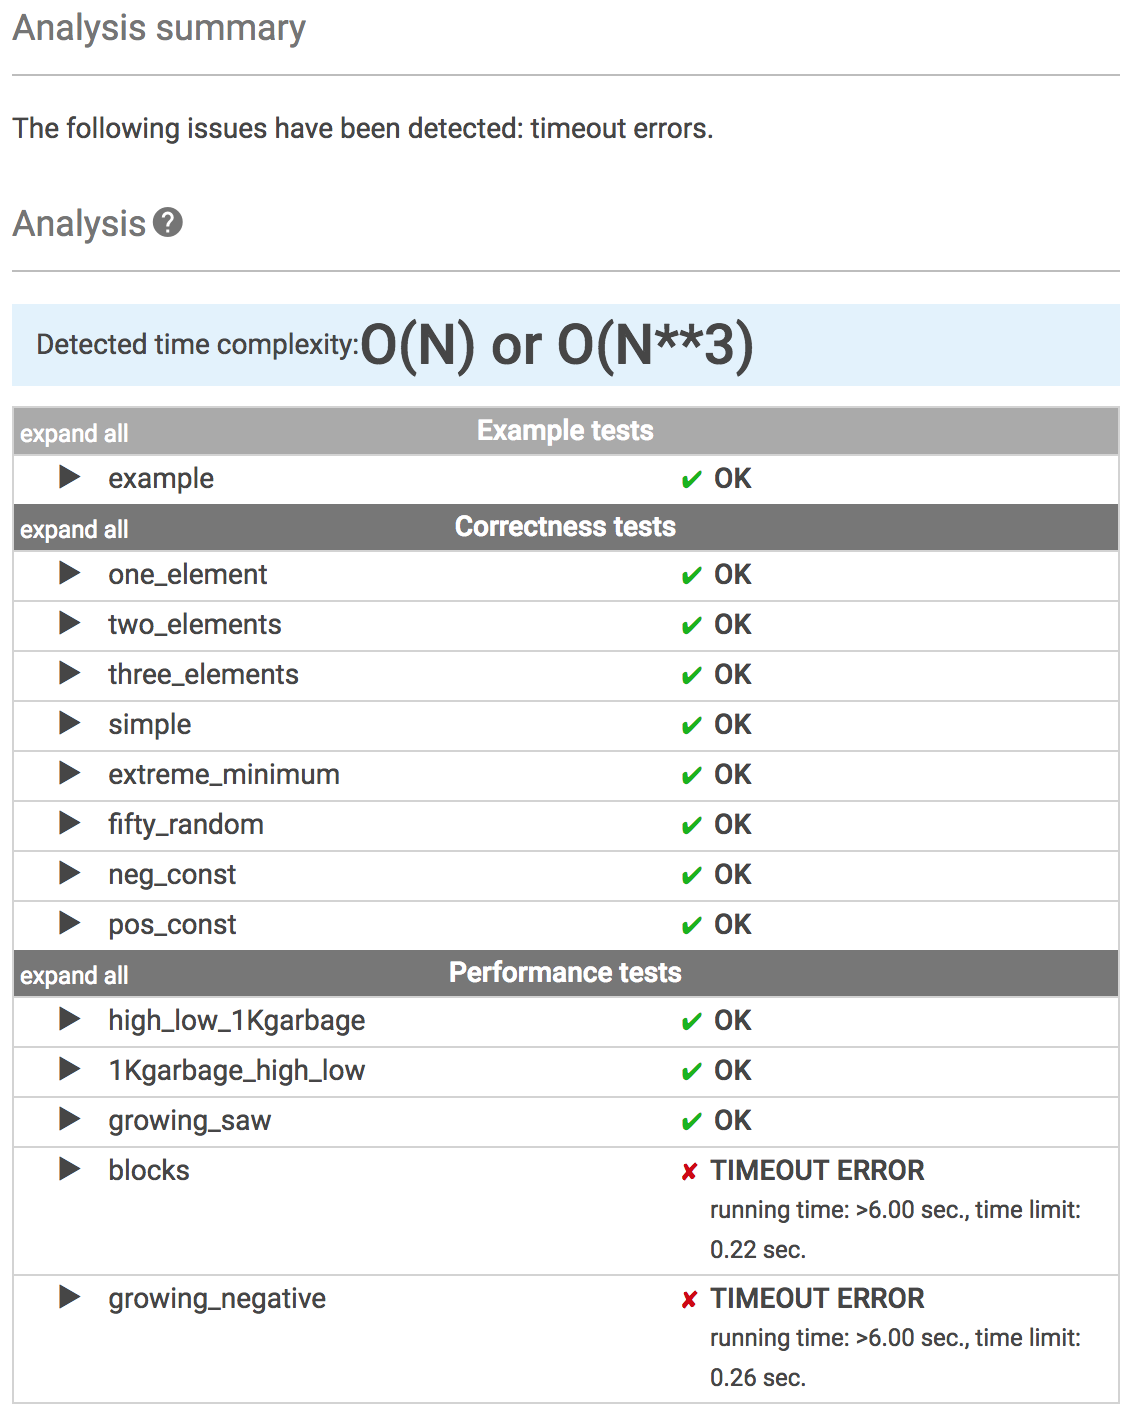
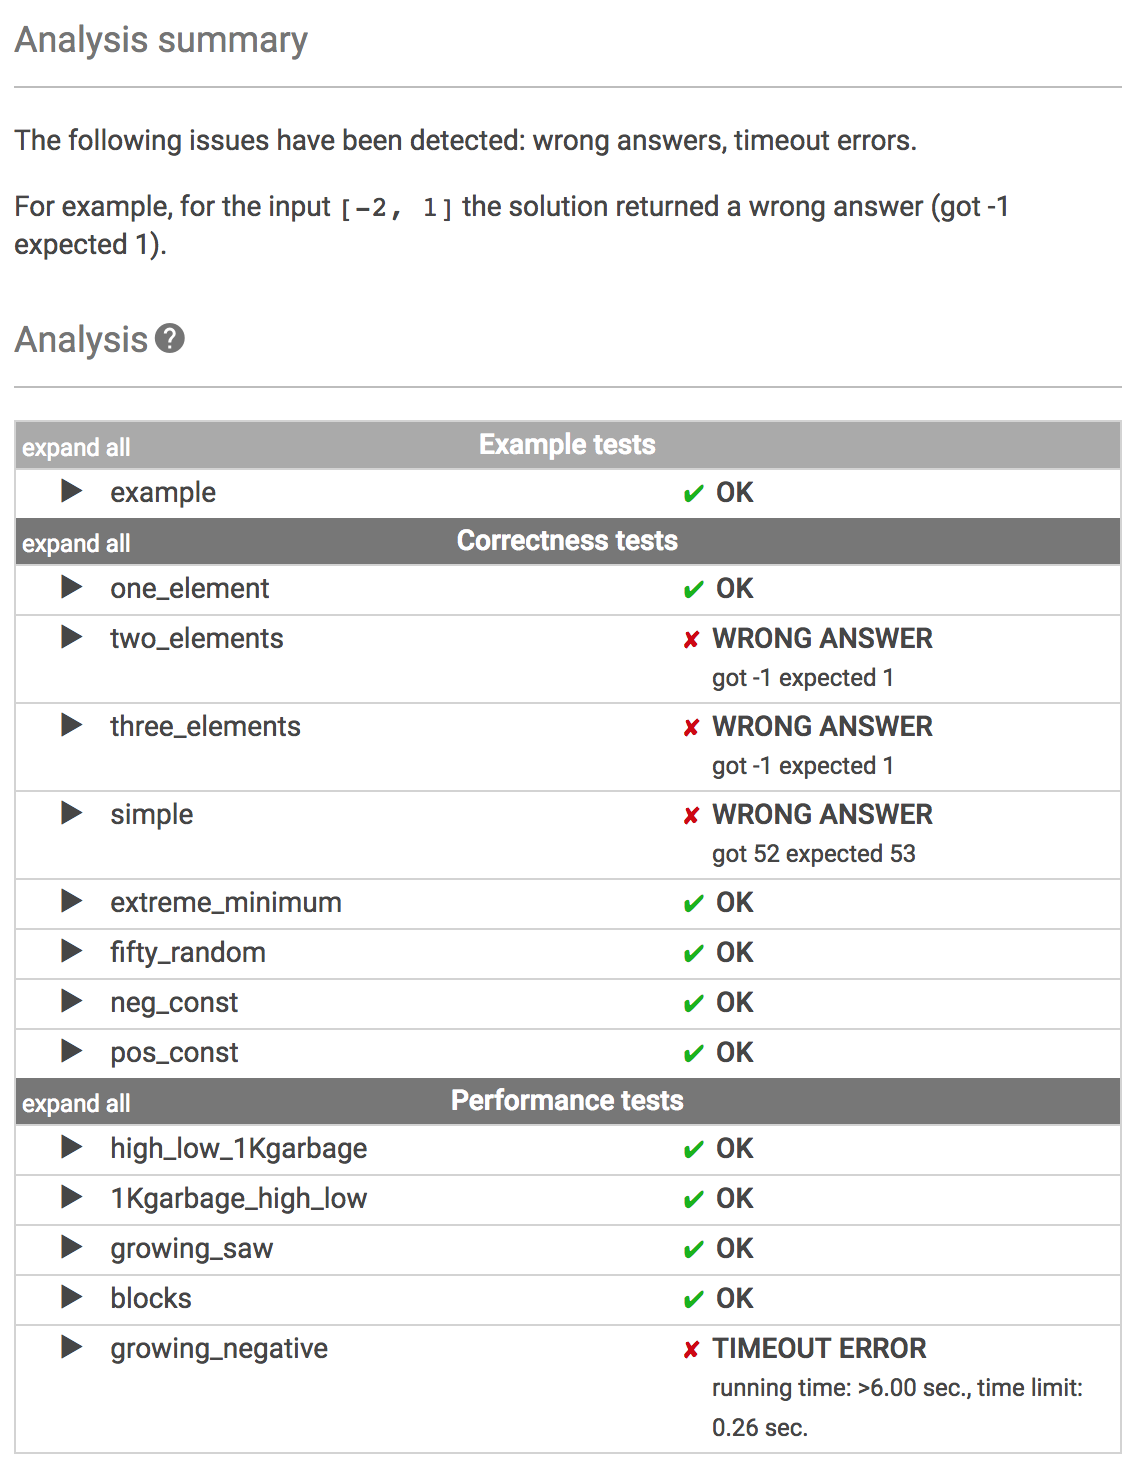
Result_3 for MaxSliceSum of Lesson_9_MaximumSliceProblem.

Changed region(s): [[0.0, 0.0, 0.9877, 0.9958]]

diff --git a/Lessons/9_MaximumSliceProblem/Tasks_MaxSliceSum/Answer.php b/Lessons/9_MaximumSliceProblem/Tasks_MaxSliceSum/Answer.php
@@ -34,6 +34,11 @@ function solution($A) {
 
             if ($tmp > $max)
             {
+                if ($j === $arrLength - 1)
+                {
+                    return $tmp;
+                }
+
                 $max = $tmp;
             }
         }
